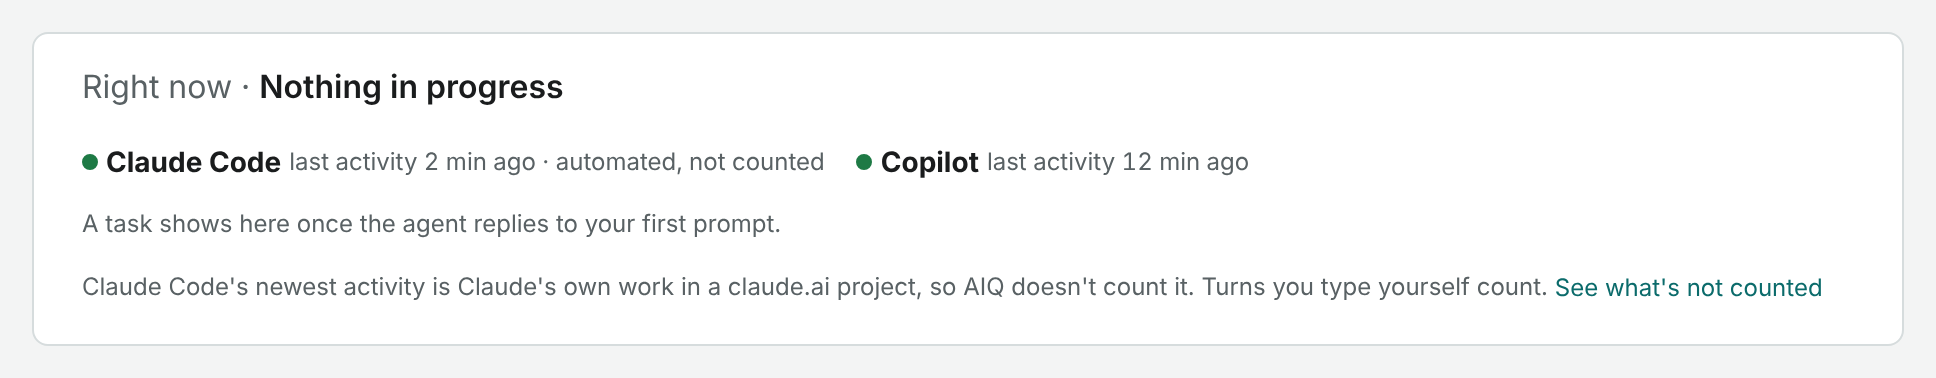
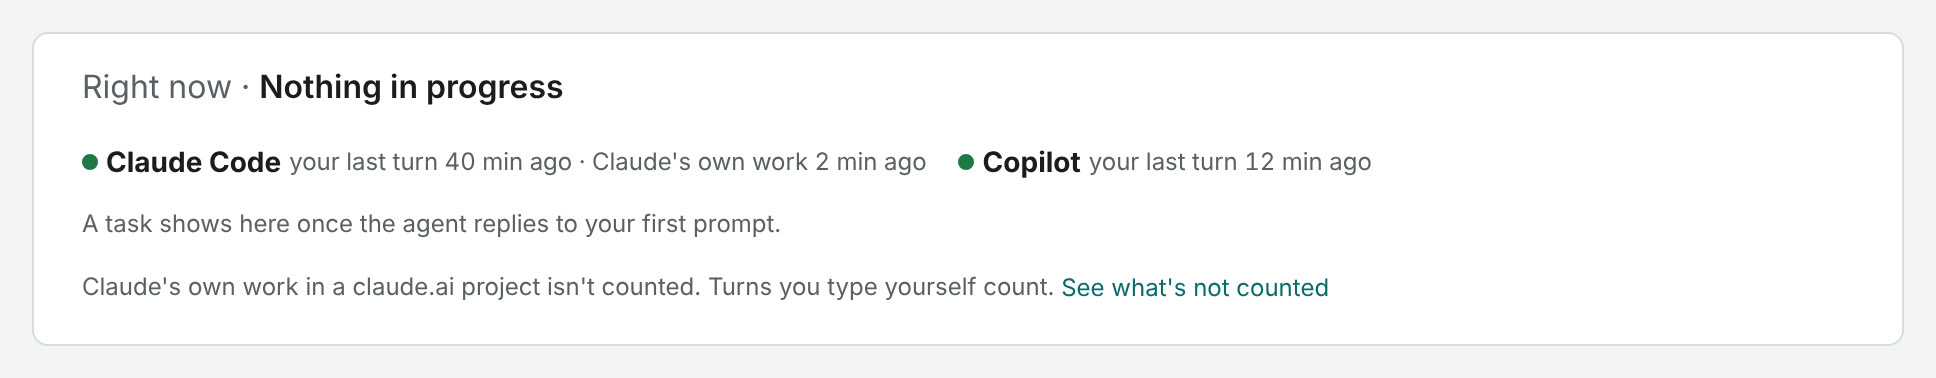
Right now card: your last turn, with Claude's own work beside it
Imran 2026-11-11 chose the mock: each connected tool shows your last typed turn, and newer automated
work with its own time ('Claude's own work', 'started by an app', 'automated'), never in its place.
Hint reads 'Claude's own work in a claude.ai project isn't counted. Turns you type yourself count.'
Tour step and README updated; the set-aside e2e now runs in light, dark and contrast.

Claude-Session: https://claude.ai/code/session_016jtqhB2b2wsaBx6Yr8x5tG

Changed region(s): [[0.062, 0.7275, 0.9607, 0.7857], [0.155, 0.4074, 0.7128, 0.4656]]

diff --git a/apps/home/src/pages/RightNow.tsx b/apps/home/src/pages/RightNow.tsx
@@ -245,12 +245,15 @@ export function quiet(snap: Snapshot) {
     .filter((t) => t.hooked && t.present && SURFACE[t.tool])
     .map((t) => {
       const [surface, name] = SURFACE[t.tool];
-      const counted = snap.seen.find((x) => x.surface === surface)?.last_ms ?? null;
-      // Activity left out as automated still is activity (Imran 2026-11-08): the card names it instead of calling the tool idle.
-      const a = snap.aside.find((x) => x.surface === surface && (counted === null || x.last_ms > counted));
-      return { name, last: a ? a.last_ms : counted, aside: a?.reason ?? null };
+      const last = snap.seen.find((x) => x.surface === surface)?.last_ms ?? null;
+      // Activity left out as automated still is activity (Imran 2026-11-08): the card names it instead of calling the
+      // tool idle. It sits beside the person's own last turn, never in its place (Imran 2026-11-11: "Yesterday 21:28 ·
+      // automated" alone read as if nothing had happened today).
+      const a = snap.aside.find((x) => x.surface === surface && (last === null || x.last_ms > last));
+      const own = a ? a.last_ms : null;
+      return { name, last, own, aside: a?.reason ?? null, latest: own ?? last };
     });
-  const silent = tools.filter((t) => t.last === null || snap.now_ms - t.last > QUIET_HINT_MS);
+  const silent = tools.filter((t) => t.latest === null || snap.now_ms - t.latest > QUIET_HINT_MS);
   const aside = tools.filter((t) => t.aside !== null);
   const state = snap.status.paused
     ? "paused"
@@ -269,10 +272,15 @@ export function asideText(tools: { name: string; aside: string | null }[]): stri
   const names = tools.map((t) => t.name).join(" and ");
   const all = (r: string) => tools.every((t) => t.aside === r);
   return all("projects")
-    ? `${names}'s newest activity is Claude's own work in a claude.ai project, so AIQ doesn't count it. Turns you type yourself count.`
+    ? "Claude's own work in a claude.ai project isn't counted. Turns you type yourself count."
     : all("not-typed")
-      ? `${names}'s newest activity was scheduled or started by an app, not typed, so AIQ doesn't count it.`
-      : `${names}'s newest activity looks like an app or script ran it, so AIQ doesn't count it.`;
+      ? `Work in ${names} that an app scheduled or started isn't counted. Turns you type yourself count.`
+      : `Work in ${names} that an app or script runs isn't counted. Turns you type yourself count.`;
+}
+
+/** What the card calls a tool's newest activity left out as automated, by rule. */
+export function ownWorkLabel(reason: string): string {
+  return reason === "projects" ? "Claude's own work" : reason === "not-typed" ? "started by an app" : "automated";
 }
 
 /** Same bar as crates/aiq-contracts `AsideNow::mostly_left_out` (10 prompts, 90%; Imran 2026-11-09). */
@@ -367,14 +375,15 @@ function Quiet(ctx: Ctx) {
         <>
           <ul className="rn-tools" aria-label="Connected tools">
             {tools.map((t) => {
-              const recent = t.last !== null && snap.now_ms - t.last < 60 * 60_000;
+              const recent = t.latest !== null && snap.now_ms - t.latest < 60 * 60_000;
+              const when = (ms: number) => ago(ms, snap.now_ms, snap.offset_min);
               return (
                 <li key={t.name}>
-                  <span className={`rn-dot${recent ? " busy" : ""}${t.last === null ? " none" : ""}`} aria-hidden="true" />
+                  <span className={`rn-dot${recent ? " busy" : ""}${t.latest === null ? " none" : ""}`} aria-hidden="true" />
                   <b>{t.name}</b>
                   <span className="meta num">
-                    {t.last === null ? "nothing yet" : `last activity ${ago(t.last, snap.now_ms, snap.offset_min)}`}
-                    {t.aside && " · automated, not counted"}
+                    {t.last !== null ? `your last turn ${when(t.last)}` : t.own !== null ? "no turn of yours yet" : "nothing yet"}
+                    {t.own !== null && t.aside && ` · ${ownWorkLabel(t.aside)} ${when(t.own)}`}
                   </span>
                 </li>
               );
@@ -392,7 +401,7 @@ function Quiet(ctx: Ctx) {
           {state === "idle" && silent.length > 0 && (
             <p className="meta rn-hint" data-testid="right-now-hint">
               Using {silent.map((t) => t.name).join(" or ")} with an agent right now? AIQ has had nothing from {silent.length > 1 ? "them" : "it"}{" "}
-              {silent.length === 1 && silent[0].last !== null ? `since ${when(silent[0].last, snap.now_ms, snap.offset_min)}` : "lately"}.{" "}
+              {silent.length === 1 && silent[0].latest !== null ? `since ${when(silent[0].latest, snap.now_ms, snap.offset_min)}` : "lately"}.{" "}
               <button className="btnlink" onClick={() => ctx.go("settings")}>
                 Check it in Settings
               </button>

diff --git a/apps/home/src/rightnow.test.ts b/apps/home/src/rightnow.test.ts
@@ -22,7 +22,7 @@ describe("Right now, several open tasks (option A)", () => {
   });
 });
 
-import { ago, asideText, leftOut, quiet, QUIET_HINT_MS } from "./pages/RightNow";
+import { ago, asideText, leftOut, ownWorkLabel, quiet, QUIET_HINT_MS } from "./pages/RightNow";
 import full from "../tests/fixtures/full.json";
 
 describe("Right now with nothing open (Imran 2026-11-08)", () => {
@@ -56,15 +56,22 @@ describe("Right now with nothing open (Imran 2026-11-08)", () => {
       { surface: "copilot-cli", last_ms: base.now_ms - 30 * 60_000, reason: "burst", left_out_today: 0, counted_today: 0 },
     ];
     const q = quiet(at({ starting: [], seen, aside, setup: { ...base.setup, tools } }));
+    // Imran 2026-11-11: the automated time sits beside the person's own last turn, never in its place.
     expect(q.tools).toEqual([
-      { name: "Claude Code", last: base.now_ms - 2 * 60_000, aside: "projects" },
-      { name: "Copilot", last: base.now_ms - 60_000, aside: null },
+      { name: "Claude Code", last: base.now_ms - 26 * 3_600_000, own: base.now_ms - 2 * 60_000, aside: "projects", latest: base.now_ms - 2 * 60_000 },
+      { name: "Copilot", last: base.now_ms - 60_000, own: null, aside: null, latest: base.now_ms - 60_000 },
     ]);
     expect(q.silent).toEqual([]);
-    expect(asideText(q.aside)).toBe(
-      "Claude Code's newest activity is Claude's own work in a claude.ai project, so AIQ doesn't count it. Turns you type yourself count.",
-    );
-    expect(asideText([{ name: "Copilot", aside: "burst" }])).toBe("Copilot's newest activity looks like an app or script ran it, so AIQ doesn't count it.");
+    expect(asideText(q.aside)).toBe("Claude's own work in a claude.ai project isn't counted. Turns you type yourself count.");
+    expect(asideText([{ name: "Copilot", aside: "burst" }])).toBe("Work in Copilot that an app or script runs isn't counted. Turns you type yourself count.");
+    expect([ownWorkLabel("projects"), ownWorkLabel("not-typed"), ownWorkLabel("burst")]).toEqual(["Claude's own work", "started by an app", "automated"]);
+  });
+  it("keeps a tool with only automated work apart from one never heard (Imran 2026-11-11)", () => {
+    const tools = [{ tool: "claude-code" as const, hooked: true, present: true, install: "" }];
+    const aside = [{ surface: "claude-code", last_ms: base.now_ms - 60_000, reason: "projects", left_out_today: 1, counted_today: 0 }];
+    const q = quiet(at({ starting: [], seen: [], aside, setup: { ...base.setup, tools } }));
+    expect(q.tools[0]).toMatchObject({ last: null, own: base.now_ms - 60_000, latest: base.now_ms - 60_000 });
+    expect(q.silent).toEqual([]);
   });
   it("says when most of a tool's prompts today were left out: 10 or more, and 90% or more (Imran 2026-11-09)", () => {
     const row = (left_out_today: number, counted_today: number, reason = "not-typed") => ({
@@ -81,7 +88,7 @@ describe("Right now with nothing open (Imran 2026-11-08)", () => {
     expect(leftOut(at({ aside: [row(9, 0)] }))).toEqual([]);
     expect(leftOut(at({ aside: [row(17, 3)] }))).toEqual([]);
     expect(asideText([{ name: "Claude Code", aside: "not-typed" }])).toBe(
-      "Claude Code's newest activity was scheduled or started by an app, not typed, so AIQ doesn't count it.",
+      "Work in Claude Code that an app scheduled or started isn't counted. Turns you type yourself count.",
     );
   });
   it("says how long ago in minutes within the hour, then the day and time", () => {

diff --git a/apps/home/src/tour.tsx b/apps/home/src/tour.tsx
@@ -26,7 +26,7 @@ export const STEPS: TourStep[] = [
     page: "home",
     target: "[data-testid=right-now]",
     title: "Right now",
-    body: () => "Tasks open now, with how far agents are taking each. When nothing runs, it lists each connected tool and when it was last active.",
+    body: () => "Tasks open now and how far agents take each. When idle: your last turn per tool, and newer work the agent did alone.",
   },
   {
     page: "home",

diff --git a/README.md b/README.md
@@ -40,12 +40,12 @@ landed. It is an estimate from what the agent did; the analyzed rung replaces it
 
 ![The Right now card: a spec task heading for Directed, could reach Delegated, with a tip at turn 3](docs/images/readme/right-now.png)
 
-When nothing is open, the card stays and lists each connected tool with its last activity. Work an agent did
-on its own (for example Claude working in a claude.ai project) shows as **automated, not counted**, so you
-can tell "nothing in progress" from "AIQ has heard nothing". Turns you type yourself always count, on any
-device.
+When nothing is open, the card stays and lists each connected tool with **your last turn**. When an agent
+worked on its own more recently (for example **Claude's own work** in a claude.ai project), that shows beside
+it with its own time and isn't counted, so you can tell "nothing in progress" from "AIQ has heard nothing".
+Turns you type yourself always count, on any device.
 
-![The Right now card with nothing open: Claude Code's last activity is automated, not counted; Copilot's counts](docs/images/readme/right-now-not-counted.png)
+![The Right now card with nothing open: Claude Code shows your last turn and, beside it, Claude's own work, which isn't counted](docs/images/readme/right-now-not-counted.png)
 
 **Is each kind of task moving up?** The last 30 days against the 30 before, per kind of task, with a check
 that a move is more than chance. A line underneath says which habits are growing and which you use less
